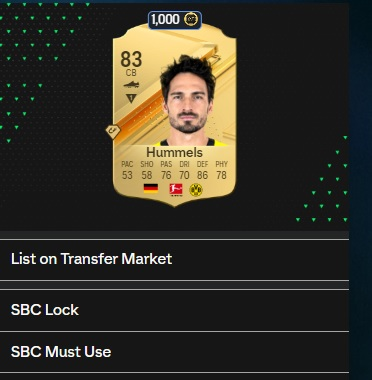
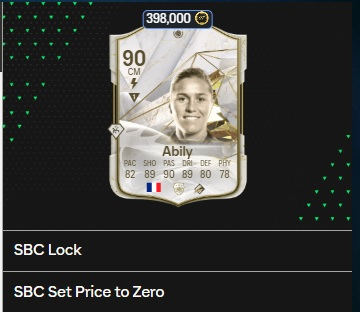
Add extra to readme

diff --git a/tampermonkey-ai-sbc.user.js b/tampermonkey-ai-sbc.user.js
@@ -460,7 +460,7 @@
 								getPrice(item) *
 									(duplicateIds.includes(item.id) ? 0.1 : 1) *
 									(item.untradeable ? 0.8 : 1) -
-								(100 - item.rating),
+								(100 - item.rating) * (isItemFixed(item) ? 0 : 1),
 						};
 					});
 
@@ -556,8 +556,8 @@
 
 	const lockedLabel = 'SBC Unlock';
 	const unlockedLabel = 'SBC Lock';
-	const fixedLabel = 'SBC Remove Must Use';
-	const unfixedLabel = 'SBC Must Use';
+	const fixedLabel = 'SBC Use actual prices';
+	const unfixedLabel = 'SBC Set Price to Zero';
 	const playerItemOverride = () => {
 		const UTDefaultSetItem = UTSlotActionPanelView.prototype.setItem;
 		UTSlotActionPanelView.prototype.setItem = function (e, t) {
@@ -696,11 +696,12 @@
 		UTPlayerItemView.prototype.renderItem = function (item, t) {
 			const result = UTPlayerItemView_renderItem.call(this, item, t);
 			if (getPrice(item)) {
+				let price = getPrice(item)  * (isItemFixed(item) ? 0 : 1)
 				this.__root.prepend(
 					createElem(
 						'div',
 						{ className: 'currency-coins item-price' },
-						getPrice(item).toLocaleString()
+						price.toLocaleString()
 					)
 				);
 			}

diff --git a/README.md b/README.md
@@ -1,8 +1,8 @@
 ## EA FC 24 Automated SBC Solving ⚽
 
-### Notes
-`The goal is to automatically solve the SBC using the currently available players in the club with the minimum cost based on futbin prices.`
+#### The goal is to automatically solve the SBC using the currently available players in the club with the minimum cost.
 
+### Frontend
 The project utilizes [tamper monkey script](https://www.tampermonkey.net/) to output the users Club Player Data.
 Install the tampermonkey extension and then install [the frontend script](https://github.com/ThomasSteere/AI-SBC/raw/main/tampermonkey-ai-sbc.user.js)
 
@@ -10,26 +10,28 @@ This script implements a number of backend functions but the main feature is a S
 ![solveBtn](https://github.com/ThomasSteere/AI-SBC/blob/main/pictures/solveBtn.jpg?raw=true)
 
 Players will also get SBC Lock button to not send use this player in the solution (if its a duplicate it will get sent)
-Also a must use button is available which will set the cost of this player to 0 so it will get used if it can be fit into the SBC
+Also a must use button is available which will set the cost of this player to 0 so it will get most likely get used if it can be fit into the SBC.
+This is useful to get rid of high rated duplicates.
 ![solveBtn](https://github.com/ThomasSteere/AI-SBC/blob/main/pictures/Player.jpg?raw=true)
 
+Current base price is based off of Futbin prices cached for 60 minutes
+- SBC Prices used in calculations ->
+	- Duplicates discounted to 10%
+	- Untradable discounted to 80%
+	- Objective Cards uses [cheapest by rating ](https://www.futbin.com/home-tab/cheapest-by-rating) with premium of 50% added bounded by players max and min price limit
 
-The constraints used in the program are created in the `optimize.py` file and the optimization problem is solved using [Google CP-SAT solver](https://developers.google.com/optimization/cp/cp_solver).
-
-The program implements the SBC requirements in `optimize.py`.
-
-To run the backend, simply run `python -m uvicorn main:app --reload` after installing the required dependencies.
-
-### Dependencies
+### Backend
 
 Run `pip3 install -r requirements.txt` to install the required dependencies.
-
+To run the backend, simply run `python -m uvicorn main:app --reload` after installing python and the required dependencies.
 - [Google OR-Tools v9.8](https://github.com/google/or-tools)
-
 - Python 3.9
-
-- pandas and openpyxl
-
+- pandas
+- openpyxl
 - fastapi
-
 - uvicorn
+
+The constraints used in the program are created in the `optimize.py` file based of the SBC requirements and the optimization problem is solved using [Google CP-SAT solver](https://developers.google.com/optimization/cp/cp_solver).
+
+### Shoutouts
+Thanks to [Regista6](https://github.com/Regista6) for showing the way with the google OR tools
